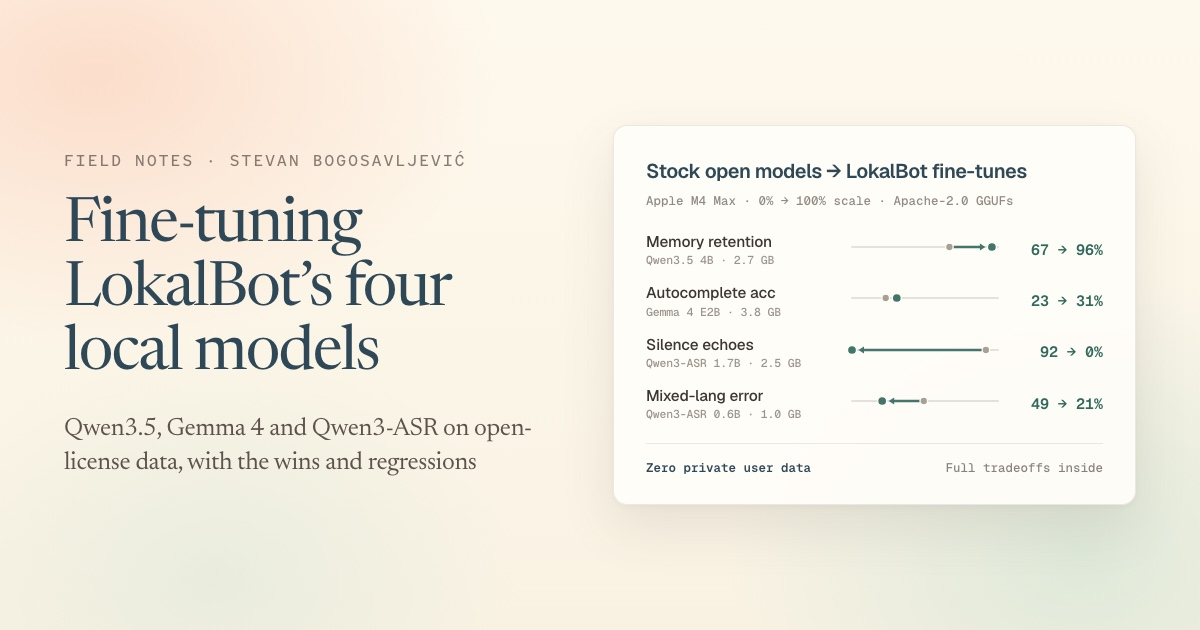
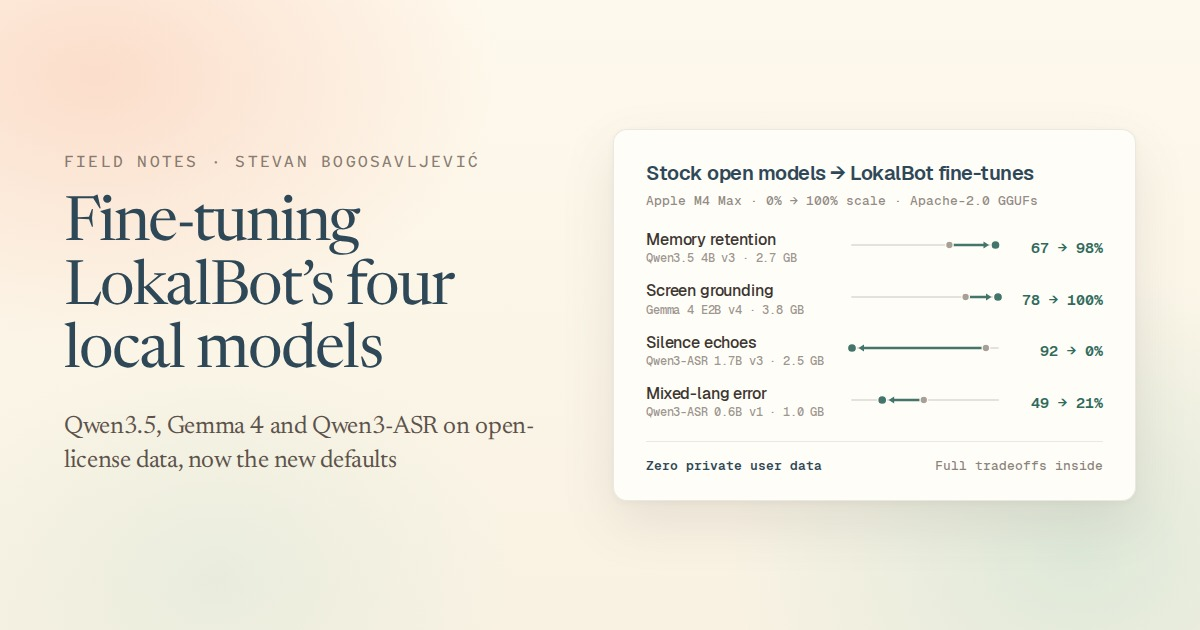
Update LokalBot 4-model fine-tuning post with Wave-3b defaults

diff --git a/blog/posts/fine-tuning-lokalbot-local-models/index.html b/blog/posts/fine-tuning-lokalbot-local-models/index.html
@@ -4,7 +4,7 @@
     <meta charset="UTF-8" />
     <meta name="viewport" content="width=device-width, initial-scale=1.0" />
     <title>Fine-tuning LokalBot’s four local models in 24 hours · Field Notes</title>
-    <meta name="description" content="Stock open models struggled with Serbian notes, quiet dictation and inline autocomplete in LokalBot. I fine-tuned all four local models over a day and published the Apache-2.0 weights, along with what got worse." />
+    <meta name="description" content="Stock open models struggled with Serbian notes, quiet dictation and inline autocomplete in LokalBot. I fine-tuned all four, ran a second pass to fix the first round’s regressions, and promoted them to LokalBot’s new defaults." />
     <link rel="canonical" href="https://stevan.bogosavljevic.me/blog/posts/fine-tuning-lokalbot-local-models/" />
     <link rel="icon" type="image/svg+xml" href="/favicon.svg" />
     <link rel="preconnect" href="https://fonts.googleapis.com" />
@@ -12,7 +12,7 @@
     <link href="https://fonts.googleapis.com/css2?family=Google+Sans+Flex:opsz,wght@6..72,400..800&family=Newsreader:ital,opsz,wght@0,6..72,400;0,6..72,500;0,6..72,600;1,6..72,400;1,6..72,500&family=Red+Hat+Mono:wght@400;500&display=swap" rel="stylesheet" />
     <link rel="stylesheet" href="../../assets/blog.css" />
     <meta property="og:title" content="Fine-tuning LokalBot’s four local models in 24 hours" />
-    <meta property="og:description" content="Stock open models struggled with Serbian notes, quiet dictation and inline autocomplete in LokalBot. I fine-tuned all four local models over a day and published the Apache-2.0 weights." />
+    <meta property="og:description" content="Stock open models struggled with Serbian notes, quiet dictation and inline autocomplete. I fine-tuned all four, fixed the first round’s regressions, and promoted them to LokalBot’s new defaults." />
     <meta property="og:type" content="article" />
     <meta property="og:url" content="https://stevan.bogosavljevic.me/blog/posts/fine-tuning-lokalbot-local-models/" />
     <meta property="og:image" content="https://stevan.bogosavljevic.me/blog/posts/fine-tuning-lokalbot-local-models/og.jpg" />
@@ -60,9 +60,9 @@
     <main id="content">
       <section class="hero hero--post" aria-labelledby="post-title">
         <div class="hero-inner">
-          <p class="eyebrow">Nov 21, 2026 · AI · Engineering · 8 min read</p>
+          <p class="eyebrow">Nov 21, 2026 (updated Nov 22) · AI · Engineering · 9 min read</p>
           <h1 id="post-title" class="post-hero-title">Fine-tuning LokalBot’s four local models in 24 hours</h1>
-          <p class="hero-subtitle">Stock open models struggled with Serbian notes, quiet dictation and inline autocomplete. I fine-tuned all four over a day and published the weights, along with what got worse.</p>
+          <p class="hero-subtitle">Stock open models struggled with Serbian notes, quiet dictation and inline autocomplete. I fine-tuned all four, ran a second pass to fix the first round’s regressions, and promoted them to LokalBot’s new defaults.</p>
         </div>
       </section>
 
@@ -71,6 +71,7 @@
           <aside class="post-meta-card" aria-label="Post metadata">
             <div class="metadata">
               <span>Published Nov 21, 2026</span>
+              <span>Updated Nov 22, 2026</span>
               <span>AI · Engineering</span>
             </div>
             <div class="post-actions">
@@ -88,12 +89,12 @@
             <div class="example-box">
               <p><span class="example-label">Transcript (Serbian / Montenegrin Cyrillic)</span>Јелена: „Договорили смо се да у четвртак у 14:00 CET пустимо нову верзију на пет одсто саобраћаја, под условом да провјера поновног учитавања прође. Нећемо је пустити за викенд.”</p>
               <p><span class="example-label is-bad">Stock Qwen3.5 4B</span>Согласовано запуск новой версии на 5% трафика в четверг в 14:00 CET при условии проверки повторного загрузки, без запуска в выходные. Decisions came back as <code>None</code>, with 20 Russian-drift hits across the notes.</p>
-              <p><span class="example-label is-good">Qwen3.5-4B-LokalBot-v2</span>Пуштање нове верзије на 5% саобраћаја у четвртак у 14:00 CET, под условом да провјера поновног учитавања прође. Saved as a decision, with zero Russian drift.</p>
+              <p><span class="example-label is-good">Qwen3.5-4B-LokalBot-v2</span>Пуштање нове верзије на 5% саобраћаја у четвртак у 14:00 CET, под условом да провјера поновног учитавања прође. Saved as a decision, with zero Russian drift (and <code>v3</code> keeps zero Russian drift and zero validator rejections across all six replay fixtures).</p>
             </div>
 
             <p>The other models had their own weak spots. Stock <code>Qwen3.5 4B</code> recalled 0 of 13 Serbian personal facts (translating them into English instead) and caught decisions on only 2 of 8 real decision-bearing meetings. Stock <code>Gemma 4 E2B</code> dropped from 25.3% autocomplete accuracy in English to 7.6% in Serbian Latin and 8.6% in Cyrillic, and sometimes suggested outdated saved facts over text that was right there in the active window. On 24 silence and room-noise clips carrying a custom vocabulary prompt (<code>Mila Novak, Orion Launch, Acme.</code>), stock <code>Qwen3-ASR 1.7B</code> echoed those names or invented words on 22 of them. And the smaller <code>0.6B</code> speech model hit 52.3% word error rate on South Slavic speech and 49.2% on mixed-language clips.</p>
 
-            <p>Over about 18.5 hours I fine-tuned all four models (<code>Qwen3.5 4B</code>, <code>Gemma 4 E2B</code>, <code>Qwen3-ASR 1.7B</code> and <code>Qwen3-ASR 0.6B</code>), uploaded the Apache-2.0 GGUFs to Hugging Face, and opened <a href="https://github.com/stevyhacker/LokalBot/pull/557">PR #557</a> and <a href="https://github.com/stevyhacker/LokalBot/pull/561">PR #561</a> to wire them into LokalBot. Think v2 and Gemma v3 are opt-in alongside the stock defaults, while PR #561 switches the default Transcribe pins.</p>
+            <p>Over an initial 18.5 hours I fine-tuned all four models (<code>Qwen3.5 4B</code>, <code>Gemma 4 E2B</code>, <code>Qwen3-ASR 1.7B</code> and <code>Qwen3-ASR 0.6B</code>) and uploaded the Apache-2.0 GGUFs to Hugging Face. At that point only the two speech models were ready to replace the defaults. Think <code>v2</code> triggered too many validator retries on noisy real meetings, and Autocomplete <code>v3</code> gave up two small saved-memory checks and some email precision. On Nov 22 I ran a follow-up pass on Colab Pro+ GPUs to fix both (<code>Qwen3.5 4B v3</code> and <code>Gemma 4 E2B v4</code>), and updated <a href="https://github.com/stevyhacker/LokalBot/pull/561">PR #561</a> (superseding <a href="https://github.com/stevyhacker/LokalBot/pull/557">#557</a>) to make all four the new built-in defaults, with a dismissible upgrade prompt for existing users still on the stock files.</p>
 
             <p>Before training anything, I set a few constraints. Every training set had to use open-license data only (Apache-2.0, ODC-By, CC0 and CC-BY-4.0, plus synthetic examples from open-weight teachers), with no private user recordings or meetings, no CC-BY-SA, and no non-commercial datasets. Holdouts were frozen ahead of time and checked for n-gram and entity overlap. Most task-specific eval sets are self-built or synthetic alongside public splits from QMSum, FLEURS, VoxPopuli, ParlaSpeech-RS and AMI, and the 12 local real-meeting references come from a frontier model rather than human labels.</p>
 
@@ -101,11 +102,11 @@
 
             <h2>What got worse</h2>
 
-            <p>None of the four models is a pure upgrade on every axis. Before getting into the recipes, here are the regressions I kept and documented in each model card:</p>
+            <p>None of the four shipped defaults is a pure upgrade on every axis. Before getting into the recipes, here are the remaining tradeoffs documented in each model card:</p>
 
             <ul>
-              <li><code>Qwen3.5 4B v2</code> is more eager on noisy real-world transcripts, which triggers more quote-mismatch validator retries (72 rejections and 21 repairs vs. 40 and 19 for stock, and 33 and 10 for v1). On the 12 local meetings, stock still has higher action recall against the frontier reference (50.0% vs. 47.1%), v1 resolves a higher share of owners (75.8% vs. 67.4%), and v2 outputs 24 decisions and 95 actions against 19 and 70 in the reference, so it over-extracts a bit. On SparkX26 it passes 8/12 cases vs. 7/12 for stock, but scores 36/43 individual fields vs. 37/43.</li>
-              <li><code>Gemma 4 E2B v3</code> drops Serbian Latin precision from 55.6% to 46.9% as coverage climbs from 13.6% to 48.5%. Median boundary latency goes from 20.6 ms to 26.6 ms (typing p95 improves from 95.6 ms to 87.2 ms). Email precision recovers from 59.5% in v2 to 70.7% in v3, still short of stock’s 74.3%, even though email accuracy rises from 50.0% to 55.8%. Two tiny memory checks (<code>memory_dev</code> at 5/6 and <code>memory_rel_heldout</code> at 4/5) remain one conservative abstention below stock, with zero false retrievals and 12/12 on <code>memory_heldout</code>.</li>
+              <li><code>Qwen3.5 4B v3</code> fixed <code>v2</code>’s retry spike (validator rejections on the 12 real meetings fell from 72 down to 6, vs. 40 for stock, with zero missing ownership quotes), raised SparkX26 from 36/43 to 40/43, and cut median extraction time by 42% (33.1 s to 19.2 s). The tradeoff is lower action recall on those 12 noisy meetings: <code>v3</code> skips speculative ASR turns, saving 54 actions (35.7% segment recall, 48.1% precision against the frontier reference) vs. 74 (50.0% recall, 50.0% precision) for stock.</li>
+              <li><code>Gemma 4 E2B v4</code> restored 56/56 across all memory and visible-context suites, lifted email precision to 80.0% (vs. 74.3% stock), kept wrong suggestions flat at 182 (vs. 181 stock), and ran faster than stock (20.2 ms median boundary, 80.0 ms typing p95). Tradeoffs: conversation precision drops from 48.6% to 42.9%, formatting precision from 61.5% to 57.1%, and overall coverage stays close to stock (48.4% vs. 58.6% in <code>v3</code>), so short-prompt Serbian recall on the Engine set is lower than in <code>v3</code> (12.1% vs. 22.7%, though <code>v4</code> beats <code>v3</code> on blind <code>fresh_holdout_v1</code> Serbian Latin at 76.7% vs. 73.3%). Both <code>v4</code> and <code>v3</code> stay in the Hugging Face repo.</li>
               <li><code>Qwen3-ASR 1.7B v3</code> returns empty transcripts on 2 of 200 very low-SNR far-field AMI-400 SDM clips (stock returns 0/200 empty). Word error rate across the five evaluated guard languages (<code>en/de/fr/es/ru</code>) ticks up 0.18 points (4.35% to 4.53%). Because AMI SDM train is in the training mix, the −1.67 point gain on AMI-400 SDM is in-domain.</li>
               <li><code>Qwen3-ASR 0.6B v1</code> regresses on the small 25-clip AMI holdout (+2.54 points close-mic, +0.58 far-field) before coming out slightly ahead on the 8× larger 400-clip AMI suite (−0.15 and −0.34 points, with 1/200 empty far-field). On AMI-400 it runs at the same speed as stock (51.3× vs. 51.9× real-time); the faster 52.7× vs. 39.7× number on holdout mostly comes from shorter outputs once the South Slavic script drift stopped.</li>
             </ul>
@@ -122,18 +123,20 @@
 
             <figure class="scorecard-fig">
               <a href="scorecard-think.png" title="Open full size">
-                <img src="scorecard-think.png" alt="Qwen3.5 4B fine-tune vs. stock on Apple M4 Max: personal facts kept right up from 66.7% to 95.8%, Serbian facts recalled 0% to 92.3%, meetings with decisions caught 25% to 100%, with action items caught on real meetings dipping from 50.0% to 47.1%." width="960" height="821" loading="lazy" decoding="async" />
+                <img src="scorecard-think.png" alt="Qwen3.5 4B v3 fine-tune vs. stock on Apple M4 Max: personal facts kept right up from 66.7% to 98.3%, Serbian facts recalled 0% to 92.3%, meetings with decisions caught 25% to 100%, with action items caught on real meetings moving from 50.0% to 35.7% while validator rejections drop from 40 to 6." width="960" height="787" loading="lazy" decoding="async" />
               </a>
-              <figcaption>Qwen3.5 4B LokalBot v2 vs. stock on Apple M4 Max. Three main gains in green and one regression in amber on a 0–100% scale.</figcaption>
+              <figcaption>Qwen3.5 4B LokalBot v3 vs. stock on Apple M4 Max. Alongside these four rates, validator rejections on the 12 real meetings fell from 40 to 6 (0 missing quotes) and median latency dropped from 33.1 s to 19.2 s.</figcaption>
             </figure>
 
             <p>LokalBot’s Think tasks want two things that usually fight each other in a 4B model: enough judgment to decide which facts are worth saving and keep Serbian Cyrillic out of Russian, and fast JSON extraction with no chain-of-thought tokens at runtime.</p>
 
-            <p>To get both, I ran <code>Qwen3.6-35B-A3B</code> (<code>UD-Q4_K_XL</code>, Apache-2.0) with <code>enable_thinking=True</code> so the 35B MoE teacher could reason through each example, then checked every output with LokalBot’s schema, verbatim-quote and grounding validators. Only outputs that passed became direct <code>enable_thinking=False</code> training targets for the 4B student. The v2 set had 1,067 verified examples (1,014 train, 53 val) mixing <code>pszemraj/qmsum-cleaned</code> (excluding the AMI eval series), synthetic English and Serbian meetings, repair traces, Personal Context memory and hard negatives, Day Digest segments, multi-step Ask tool calls, and 180 general instruction rows from <code>allenai/tulu-3-sft-mixture</code> (ODC-By).</p>
+            <p>To get both, I ran <code>Qwen3.6-35B-A3B</code> (<code>UD-Q4_K_XL</code>, Apache-2.0) with <code>enable_thinking=True</code> so the 35B MoE teacher could reason through each example, then checked every output with LokalBot’s schema, verbatim-quote and grounding validators. Only outputs that passed became direct <code>enable_thinking=False</code> training targets for the 4B student. Qwen3.5 mixes regular attention layers with Gated DeltaNet linear-attention layers, so I attached bf16 LoRA (<code>r=32</code>, <code>alpha=64</code>, <code>lr=1.0e-4</code>, 2 epochs) to all 248 <code>language_model</code> linear projections, including DeltaNet’s <code>in_proj_qkv/z/a/b</code> and <code>out_proj</code>, leaving the vision tower untouched.</p>
 
-            <p>Qwen3.5 mixes regular attention layers with Gated DeltaNet linear-attention layers, so I attached bf16 LoRA (<code>r=32</code>, <code>alpha=64</code>, <code>lr=1.0e-4</code>, 2 epochs) to all 248 <code>language_model</code> linear projections, including DeltaNet’s <code>in_proj_qkv/z/a/b</code> and <code>out_proj</code>, leaving the vision tower untouched. After merging in fp32, converting to F16 GGUF, and running a 64-chunk bilingual imatrix (English, Serbian Latin and Cyrillic, plus LokalBot JSON), <code>Q4_K_M</code> came out to <code>2,741,241,920</code> bytes, the exact same byte count as stock.</p>
+            <p>The first pass (<code>v1</code>) fixed decisions (3/6 to 6/6 on Golden6, 2/8 to 8/8 on real meetings), Serbian memory recall (0/13 to 12/13) and Russian drift (20 to 0), but got timid on multi-speaker action items (27 down to 17 on Golden6) and saved 7 unwanted English memory items. For <code>v2</code> (1,067 rows) I added 78 action-dense meetings and 65 hard-negative memory rows. Memory retention climbed to 115/120 (95.8%, 1 unwanted), English useful recall hit 94.2%, and Golden6 actions recovered to 34. On the 12 noisy real meetings, though, <code>v2</code> hit 72 validator rejections and 21 repair calls (up from 40 and 19 for stock).</p>
 
-            <p>The first pass (<code>v1</code>) fixed decisions (3/6 to 6/6 on Golden6, 2/8 to 8/8 on real meetings), Serbian memory recall (0/13 to 12/13) and Russian drift (20 to 0), but it got timid on multi-speaker action items (27 down to 17 on Golden6) and saved 7 unwanted English memory items. For <code>v2</code> I added 78 action-dense meetings and 65 hard-negative memory rows. Memory retention climbed to 115/120 (95.8%, 1 unwanted item), English useful recall hit 94.2% (above stock <code>Qwen3.5 9B</code>’s 71.2%), and Golden6 actions recovered to 34, with the higher retry rate on noisy meetings noted above. Both checkpoints live on <a href="https://huggingface.co/stevyhacker/Qwen3.5-4B-LokalBot-GGUF">Hugging Face</a>.</p>
+            <p>Checking the training code turned up four specific bugs behind those 72 rejections. The repair training prompt used plain bullet text while LokalBot’s Swift recovery loop sends JSON <code>Validation feedback:</code>, so <code>v2</code> had never seen the real repair format. When the teacher paraphrased a quote, the distillation script fell back to pasting the entire turn. Synthetic meetings forced 5 to 7 actions each and included non-English questions marked as commitments, which LokalBot’s validator always rejects. And an over-strict Cyrillic filter had left only 3 Serbian Cyrillic meetings in <code>v2</code>.</p>
+
+            <p>For <code>v3</code> I compiled LokalBot’s production Swift evidence validator into a standalone CLI and ran every distilled meeting and repair trace through it, raising <code>max_length</code> to 10,240 and rebuilding the dataset with 122 Serbian Cyrillic meetings and 220 real on-policy JSON repair traces (including one-call <code>basis="unclear"</code> exits). My first <code>v3</code> run swung too far toward silence (12.9% real-meeting action recall) because 42.7% of the long QMSum chunks were empty and a script bug accidentally wiped valid actions on zero-action bands. Fixing that bug, capping empty QMSum chunks, and balancing long chunks (1,870 Swift-verified rows, zero dropped) followed by an fp32 merge at <code>scale=0.85</code> and a 64-chunk bilingual EN/SR/JSON imatrix landed <code>Qwen3.5-4B-LokalBot-v3-Q4_K_M.gguf</code> (<code>2,741,241,984</code> bytes). Memory retention reached 118/120 (52/52 English, 12/13 Serbian, 1 unwanted), SparkX26 rose to 40/43 fields (9/12 cases, 6/6 tools, multi-step intact), Golden6 finished with zero rejections and zero drift in 7.16 s, and the 12 real meetings dropped from 72 rejections to 6 (zero missing quotes, 5 repairs, 8/8 decision meetings, 19.2 s median). All three checkpoints live on <a href="https://huggingface.co/stevyhacker/Qwen3.5-4B-LokalBot-GGUF">Hugging Face</a>.</p>
 
             <details>
               <summary>See the full Qwen3.5 4B numbers</summary>
@@ -143,7 +146,7 @@
                     <tr>
                       <th>Suite (Apple M4 Max · <code>llama-server v1.0.0</code>)</th>
                       <th class="num">Stock 4B</th>
-                      <th class="num">LokalBot v2</th>
+                      <th class="num">LokalBot v3</th>
                       <th class="num">Change</th>
                     </tr>
                   </thead>
@@ -151,8 +154,8 @@
                     <tr>
                       <td>Memory Retention — English (96 cases, 52 gold)</td>
                       <td class="num">70/96 (53.8% recall, 3 unwanted)</td>
-                      <td class="num">92/96 (94.2% recall, 1 unwanted)</td>
-                      <td class="num">+22.9 pp (+40.4 pp recall)</td>
+                      <td class="num">95/96 (100.0% recall, 1 unwanted)</td>
+                      <td class="num">+26.0 pp (+46.2 pp recall)</td>
                     </tr>
                     <tr>
                       <td>Memory Retention — Serbian (24 cases, 13 gold)</td>
@@ -163,34 +166,34 @@
                     <tr>
                       <td>SparkX26 Guard (12 JSON / 43 fields · 6 tools)</td>
                       <td class="num">7/12 (37/43) · 6/6 · 0.58 s</td>
-                      <td class="num">8/12 (36/43) · 6/6 · 0.52 s</td>
-                      <td class="num">+1 JSON (−1 field)</td>
+                      <td class="num">9/12 (40/43) · 6/6 · 0.40 s</td>
+                      <td class="num">+2 JSON (+3 fields)</td>
                     </tr>
                     <tr>
                       <td>Golden6 Swift Replay (6 synthetic meetings)</td>
-                      <td class="num">27 act · 3/6 dec · 20 RU · 10.4 s</td>
-                      <td class="num">34 act · 6/6 dec · 0 RU · 9.8 s</td>
-                      <td class="num">+7 actions, 0 drift</td>
+                      <td class="num">27 act · 3 dec · 3 rej · 20 RU · 10.4 s</td>
+                      <td class="num">30 act · 7 dec · 0 rej · 0 RU · 7.2 s</td>
+                      <td class="num">0 rejections, 0 drift</td>
                     </tr>
                     <tr>
                       <td>12 Real Meetings (frontier ref: 19 dec / 8 mtgs, 70 act)</td>
-                      <td class="num">5 dec (2/8) · 50.0% rec · 33.1 s</td>
-                      <td class="num">24 dec (8/8) · 47.1% rec · 32.3 s</td>
-                      <td class="num">8/8 dec; 72 vs 40 retries</td>
+                      <td class="num">5 dec (2/8) · 50.0% rec · 40 rej · 33.1 s</td>
+                      <td class="num">26 dec (8/8) · 35.7% rec · 6 rej · 19.2 s</td>
+                      <td class="num">8/8 dec, −85% rej, −42% time</td>
                     </tr>
                   </tbody>
                 </table>
               </div>
-              <p class="table-note">Full stock / v1 / v2 table and SHA-256 checksums are in <a href="https://huggingface.co/stevyhacker/Qwen3.5-4B-LokalBot-GGUF"><code>stevyhacker/Qwen3.5-4B-LokalBot-GGUF</code></a>.</p>
+              <p class="table-note">Full stock / v1 / v2 / v3 table and SHA-256 checksums are in <a href="https://huggingface.co/stevyhacker/Qwen3.5-4B-LokalBot-GGUF"><code>stevyhacker/Qwen3.5-4B-LokalBot-GGUF</code></a>.</p>
             </details>
 
             <h2>Autocomplete: Gemma 4 E2B</h2>
 
             <figure class="scorecard-fig">
               <a href="scorecard-autocomplete.png" title="Open full size">
-                <img src="scorecard-autocomplete.png" alt="Gemma 4 E2B fine-tune vs. stock on Apple M4 Max: overall test accuracy up from 23.1% to 30.7%, Serbian typing accuracy 7.6% to 22.7%, active-window grounding 77.8% to 100%, with Serbian precision dipping from 55.6% to 46.9% as output tripled." width="960" height="821" loading="lazy" decoding="async" />
+                <img src="scorecard-autocomplete.png" alt="Gemma 4 E2B v4 fine-tune vs. stock on Apple M4 Max: screen grounding up from 77.8% to 100% (56/56 across all memory and visible-context checks), email precision 74.3% to 80.0%, blind holdout v2 accuracy 43.9% to 52.4%, with conversation precision dipping from 48.6% to 42.9%." width="960" height="787" loading="lazy" decoding="async" />
               </a>
-              <figcaption>Gemma 4 E2B LokalBot v3 vs. stock through LokalBot’s macOS Release binary.</figcaption>
+              <figcaption>Gemma 4 E2B LokalBot v4 (default) vs. stock through LokalBot’s macOS Release binary. Overall Engine accuracy moves from 23.1% to 25.3% (+17 right for +1 wrong shown) at 20.2 ms median boundary latency.</figcaption>
             </figure>
 
             <p>Inline autocomplete only shows a suggestion when the top token crosses a confidence threshold. Plain SFT makes logits sharper everywhere, which makes the model overconfident and floods the editor with bad guesses.</p>
@@ -201,7 +204,9 @@
 
             <p>I then had Claude Opus compare 50 randomized dev pairs where <code>v2-PLE</code> and stock differed, without model labels. It preferred <code>v2-PLE</code> overall (27 to 9, with 14 ties; 22–5–5 under production gates), but kept pointing out bad email completions. Checking the benchmark showed email precision had dropped from 74.3% to 59.5%, and two small memory sets had slipped by one case each.</p>
 
-            <p>Printing a few raw rows from the v2 training file showed why. The <code>email_calib_kl_en</code> slice had pulled in raw FineWeb pages with no spam filter, so SEO and adult spam starting with <code>Subject:</code> had poisoned email calibration. On top of that, the training mix had 681 <code>Visible + Memory</code> override rows against only 126 standalone <code>Memory-only</code> rows (a 5.4× skew). For <code>v3</code> I dropped 309 bad rows, added 750 clean <code>Subject:</code> anchors, 650 standalone memory recall rows, 250 memory distractor anchors and 400 Serbian calibration rows, raised ungrounded KL from 0.45 to 0.52, and quantized with a bilingual EN/SR imatrix at merge scale 1.15. By step 1,156 all five validation buckets improved top-1 accuracy and lowered confident-wrong rate while holding Serbian Latin mean top-1 probability steady at stock’s 0.538. Email rose to 55.77% accuracy and 70.7% precision, while the two small memory sets stayed one abstention below stock. Weights live in <a href="https://huggingface.co/stevyhacker/Gemma-4-E2B-LokalBot-GGUF"><code>stevyhacker/Gemma-4-E2B-LokalBot-GGUF</code></a>.</p>
+            <p>Printing a few raw rows from the v2 training file showed why. The <code>email_calib_kl_en</code> slice had pulled in raw FineWeb pages with no spam filter, so SEO and adult spam starting with <code>Subject:</code> had poisoned email calibration. On top of that, the training mix had 681 <code>Visible + Memory</code> override rows against only 126 standalone <code>Memory-only</code> rows (a 5.4× skew). For <code>v3</code> I dropped 309 bad rows, added 750 clean <code>Subject:</code> anchors, 650 standalone memory recall rows, 250 memory distractor anchors and 400 Serbian calibration rows, raised ungrounded KL from 0.45 to 0.52, and quantized with a bilingual EN/SR imatrix at merge scale 1.15. Engine accuracy climbed to 30.71% (22.7% Serbian Latin, 82.5% on <code>fresh_holdout_v1</code>) and email recovered to 55.77% accuracy and 70.7% precision, but wrong suggestions rose from 181 to 220 and two small memory sets stayed one abstention below stock (24/26).</p>
+
+            <p>Looking into why <code>v3</code> still missed those memory cases caught two trainer bugs: bodies under 20 tokens were silently dropped (818 targeted rows lost), and the first 4 to 16 body tokens were masked from both cross-entropy and KL, leaving early sentence positions unanchored. For <code>v4</code> I dropped the prefaced minimum length to 6 tokens, ran Forward KL from body token 0 on every row, replaced the chatty synthetic memory templates with diverse <code>kl_only=True</code> standalone memory and short chat/formatting anchors, and kept early unprefaced tokens on the blended 26B teacher (an intermediate run anchored them strictly to stock E2B and pulled short-prompt recall down too far). Merging at <code>scale=1.0</code> without temperature folding (testing <code>T=1.1</code> after verifying Gemma 4’s multiplicative RMSNorm scale math hurt precision) produced the default-safe <code>v4</code> checkpoint: 56/56 across all memory and visible-context suites, 80.0% email precision, 25.25% overall Engine accuracy and 52.23% precision with 199 right and 182 wrong (vs. 182 right and 181 wrong for stock), 76.7% on blind <code>fresh_holdout_v1</code> Serbian Latin, 52.4% vs. 43.9% on a newly minted 82-case <code>fresh_holdout_v2</code>, and faster latency than stock (20.2 ms median / 80.0 ms typing p95). LokalBot now defaults to <code>v4</code>; <code>v3</code> stays in <a href="https://huggingface.co/stevyhacker/Gemma-4-E2B-LokalBot-GGUF"><code>stevyhacker/Gemma-4-E2B-LokalBot-GGUF</code></a> if you prefer higher completion volume over stock-level restraint.</p>
 
             <details>
               <summary>See the full Gemma 4 E2B numbers</summary>
@@ -211,7 +216,7 @@
                     <tr>
                       <th>Benchmark (LokalBot macOS Release binary)</th>
                       <th class="num">Stock i1-Q6_K</th>
-                      <th class="num">v3 (scale 1.15, biling)</th>
+                      <th class="num">v4 (default, s=1.0)</th>
                       <th class="num">Change</th>
                     </tr>
                   </thead>
@@ -219,38 +224,32 @@
                     <tr>
                       <td>Engine Overall (788 checkpoints) acc / prec</td>
                       <td class="num">23.10% / 50.1%</td>
-                      <td class="num">30.71% / 52.4%</td>
-                      <td class="num">+7.61 / +2.24 pp</td>
+                      <td class="num">25.25% / 52.2%</td>
+                      <td class="num">+2.15 / +2.09 pp</td>
+                    </tr>
+                    <tr>
+                      <td>Engine Correct / Wrong shown</td>
+                      <td class="num">182 / 181</td>
+                      <td class="num">199 / 182</td>
+                      <td class="num">+17 right / +1 wrong</td>
                     </tr>
                     <tr>
                       <td>Email (52) acc / prec</td>
                       <td class="num">50.00% / 74.3%</td>
-                      <td class="num">55.77% / 70.7%</td>
-                      <td class="num">+5.77 pp acc (−3.6 pp prec)</td>
+                      <td class="num">53.85% / 80.0%</td>
+                      <td class="num">+3.85 / +5.7 pp</td>
                     </tr>
                     <tr>
-                      <td>Long-Context (47) acc / prec</td>
-                      <td class="num">19.15% / 33.3%</td>
-                      <td class="num">31.91% / 41.7%</td>
-                      <td class="num">+12.76 / +8.4 pp</td>
-                    </tr>
-                    <tr>
-                      <td>Serbian Latin (66) acc / prec</td>
-                      <td class="num">7.58% / 55.6%</td>
-                      <td class="num">22.73% / 46.9%</td>
-                      <td class="num">3.0× acc (−8.7 pp prec)</td>
-                    </tr>
-                    <tr>
-                      <td>Serbian Cyrillic (58) acc / prec</td>
-                      <td class="num">8.62% / 38.5%</td>
-                      <td class="num">18.97% / 40.7%</td>
-                      <td class="num">2.2× acc (+2.2 pp prec)</td>
+                      <td>Serbian Latin (66) · Cyrillic (58) acc</td>
+                      <td class="num">7.58% · 8.62%</td>
+                      <td class="num">12.12% · 13.79%</td>
+                      <td class="num">1.6× · 1.6× (v3: 3.0× / 2.2×)</td>
                     </tr>
                     <tr>
                       <td>Multilingual (40) · Heldout Midword (288)</td>
                       <td class="num">35.0% · 52.78%</td>
-                      <td class="num">50.0% · 54.86%</td>
-                      <td class="num">+15.0 · +2.08 pp</td>
+                      <td class="num">42.5% · 53.82% (68.9% prec)</td>
+                      <td class="num">+7.5 · +1.04 pp</td>
                     </tr>
                     <tr>
                       <td>Visible Context Dev (8) / Heldout (18) / Link (4)</td>
@@ -261,25 +260,31 @@
                     <tr>
                       <td>Memory Heldout (12) / Dev (6) / Relevance (5)</td>
                       <td class="num">12/12 · 6/6 · 5/5</td>
-                      <td class="num">12/12 · 5/6 · 4/5</td>
-                      <td class="num">−1 dev / −1 rel (0 false)</td>
+                      <td class="num">12/12 · 6/6 · 5/5</td>
+                      <td class="num">56/56 total (0 regressions)</td>
                     </tr>
                     <tr>
-                      <td>Frozen Blind Holdout (160 cases)</td>
-                      <td class="num">73.13% (84.8% prec, 11 forbidden)</td>
-                      <td class="num">82.50% (90.4% prec, 1 forbidden)</td>
-                      <td class="num">+9.37 pp (14/14 stale)</td>
+                      <td>Blind <code>fresh_holdout_v1</code> (160) · SR-Latn (30)</td>
+                      <td class="num">73.12% · 70.0%</td>
+                      <td class="num">78.75% · 76.7% (2 forb)</td>
+                      <td class="num">+5.63 · +6.7 pp</td>
+                    </tr>
+                    <tr>
+                      <td>Blind <code>fresh_holdout_v2</code> (82 fresh cases)</td>
+                      <td class="num">43.90% (87.8% prec, 1 forb)</td>
+                      <td class="num">52.44% (89.6% prec, 1 forb)</td>
+                      <td class="num">+8.54 pp</td>
                     </tr>
                     <tr>
                       <td>Latency (M4 Max) boundary med / typing p95</td>
-                      <td class="num">20.6 ms / 95.6 ms</td>
-                      <td class="num">26.6 ms / 87.2 ms</td>
-                      <td class="num">+6.0 ms med / −8.4 ms p95</td>
+                      <td class="num">21.2 ms / 103.5 ms</td>
+                      <td class="num">20.2 ms / 80.0 ms</td>
+                      <td class="num">−1.0 ms med / −23.5 ms p95</td>
                     </tr>
                   </tbody>
                 </table>
               </div>
-              <p class="table-note">Full stock / v1 / v2-PLE / v3 progression is in <a href="https://huggingface.co/stevyhacker/Gemma-4-E2B-LokalBot-GGUF"><code>stevyhacker/Gemma-4-E2B-LokalBot-GGUF</code></a>.</p>
+              <p class="table-note">Full stock / v2-PLE / v3 / v4 progression is in <a href="https://huggingface.co/stevyhacker/Gemma-4-E2B-LokalBot-GGUF"><code>stevyhacker/Gemma-4-E2B-LokalBot-GGUF</code></a>.</p>
             </details>
 
             <h2>Speech: Qwen3-ASR 1.7B and 0.6B</h2>
@@ -429,24 +434,25 @@
 
             <ul>
               <li>Check the exact LoRA target names for the architecture instead of copying <code>q_proj</code> and <code>v_proj</code>. On Qwen3.5 that meant including the Gated DeltaNet projections, on Gemma 4 E2B skipping KV-shared layers 15–34 and adding the 70 PLE matrices, and on Qwen3-ASR 1.7B unlocking the top four <code>audio_tower</code> layers at a lower learning rate.</li>
+              <li>Put the app’s real validator in the distillation loop. Compiling LokalBot’s Swift validator and feeding on-policy JSON repair traces cut real-meeting validator rejections from 72 down to 6.</li>
               <li>Distill larger or thinking models into small fast students when you can’t afford thinking tokens or big weights at runtime. <code>Qwen3.6-35B-A3B</code> into non-thinking <code>Qwen3.5 4B</code> and <code>Gemma-4-26B-A4B</code> soft-logit KL into <code>Gemma 4 E2B</code> gave most of the quality gain with no extra latency.</li>
-              <li>Sweep LoRA merge scales (<code>0.75, 0.9, 1.0, 1.15</code>) and calibrate a bilingual imatrix locally on the Mac before touching the blind holdout. Each merge takes about a minute, costs nothing in GPU time, and usually finds another point or two on dev.</li>
-              <li>Print raw training rows when a slice looks off. That caught the FineWeb spam in Gemma’s email anchors immediately, and the two blind v2 pairwise checks pointed straight at what to fix in v3.</li>
+              <li>Sweep LoRA merge scales (<code>0.75, 0.85, 1.0, 1.15</code>) and calibrate a bilingual imatrix before touching the blind holdout. Each merge takes about a minute, costs almost nothing, and usually finds another point or two on dev.</li>
+              <li>Print raw training rows and dropped-row counts when a slice looks off. That caught the FineWeb spam in Gemma’s email anchors, the 818 dropped short bodies in <code>v3</code>, and the empty-chunk over-correction in the first <code>v3</code> Think run.</li>
               <li>Check the boring GPU plumbing early. Marketplace ingress charges ($0.02/GB on 15 GB of audio streams), low-RAM containers killing data loaders, a stale CUDA 12.6 host driver silently falling back to CPU, and my laptop disk filling up during temporary bf16 GGUF writes all cost more time than picking a learning rate.</li>
             </ul>
 
             <h2>Try the models</h2>
 
-            <p>In LokalBot, open <strong>Settings → Models → Browse Hugging Face</strong> and search <code>stevyhacker/</code>, or follow the open catalog PRs (<a href="https://github.com/stevyhacker/LokalBot/pull/557">#557</a> and <a href="https://github.com/stevyhacker/LokalBot/pull/561">#561</a>). You can also run any of the GGUFs directly with <code>llama.cpp</code>:</p>
+            <p>In LokalBot, <a href="https://github.com/stevyhacker/LokalBot/pull/561">PR #561</a> makes all four fine-tunes the new built-in defaults (with an in-app upgrade prompt if you are still on the previous stock files), or you can grab any checkpoint under <strong>Settings → Models → Browse Hugging Face</strong> by searching <code>stevyhacker/</code>. You can also run any of the GGUFs directly with <code>llama.cpp</code>:</p>
 
-            <pre><code># Think (Qwen3.5-4B-LokalBot-v2, non-thinking mode)
+            <pre><code># Think (Qwen3.5-4B-LokalBot-v3, non-thinking mode)
 llama-server \
-  -m Qwen3.5-4B-LokalBot-v2-Q4_K_M.gguf \
+  -m Qwen3.5-4B-LokalBot-v3-Q4_K_M.gguf \
   -c 32768 -ngl 99 --jinja --reasoning on --port 8080
 
-# Autocomplete (Gemma-4-E2B-LokalBot-v3)
+# Autocomplete (Gemma-4-E2B-LokalBot-v4)
 llama-server \
-  -m Gemma-4-E2B-LokalBot-v3-i1-Q6_K.gguf \
+  -m Gemma-4-E2B-LokalBot-v4-i1-Q6_K.gguf \
   -c 4096 -ngl 99 --port 8081
 
 # Transcribe 1.7B (Qwen3-ASR-1.7B-LokalBot-v3 + paired v3 mmproj)
@@ -479,6 +485,6 @@ LLAMA_MEDIA_MARKER="&lt;__media__&gt;" llama-server \
       </div>
     </footer>
 
-    <script type="application/ld+json">{"@context":"https://schema.org","@type":"BlogPosting","headline":"Fine-tuning LokalBot’s four local models in 24 hours","description":"Stock open models struggled with Serbian notes, quiet dictation and inline autocomplete in LokalBot. I fine-tuned all four local models over a day and published the Apache-2.0 weights, along with what got worse.","datePublished":"2026-11-21","author":{"@type":"Person","name":"Stevan Bogosavljević"},"image":"https://stevan.bogosavljevic.me/blog/posts/fine-tuning-lokalbot-local-models/og.jpg","mainEntityOfPage":"https://stevan.bogosavljevic.me/blog/posts/fine-tuning-lokalbot-local-models/","url":"https://stevan.bogosavljevic.me/blog/posts/fine-tuning-lokalbot-local-models/"}</script>
+    <script type="application/ld+json">{"@context":"https://schema.org","@type":"BlogPosting","headline":"Fine-tuning LokalBot’s four local models in 24 hours","description":"Stock open models struggled with Serbian notes, quiet dictation and inline autocomplete in LokalBot. I fine-tuned all four, ran a second pass to fix the first round’s regressions, and promoted them to LokalBot’s new defaults.","datePublished":"2026-11-21","dateModified":"2026-11-22","author":{"@type":"Person","name":"Stevan Bogosavljević"},"image":"https://stevan.bogosavljevic.me/blog/posts/fine-tuning-lokalbot-local-models/og.jpg","mainEntityOfPage":"https://stevan.bogosavljevic.me/blog/posts/fine-tuning-lokalbot-local-models/","url":"https://stevan.bogosavljevic.me/blog/posts/fine-tuning-lokalbot-local-models/"}</script>
   </body>
 </html>

diff --git a/blog/index.html b/blog/index.html
@@ -56,9 +56,9 @@
           <a class="note-card note-card--lead" href="posts/fine-tuning-lokalbot-local-models/">
             <figure class="note-thumb"><img src="posts/fine-tuning-lokalbot-local-models/og.jpg" alt="" width="1200" height="630" loading="eager" decoding="async" /></figure>
             <div>
-              <p class="note-meta">Nov 21, 2026 · AI, Engineering · 8 min read</p>
+              <p class="note-meta">Nov 22, 2026 · AI, Engineering · 9 min read</p>
               <h3>Fine-tuning LokalBot’s four local models in 24 hours</h3>
-              <p class="note-excerpt">Stock open models struggled with Serbian notes, quiet dictation and inline autocomplete. I fine-tuned all four local models over a day and published the Apache-2.0 weights, along with what got worse.</p>
+              <p class="note-excerpt">Stock open models struggled with Serbian notes, quiet dictation and inline autocomplete. I fine-tuned all four, ran a second pass to fix the first round’s regressions, and promoted them to LokalBot’s new defaults.</p>
             </div>
           </a>
           <a class="note-card" href="posts/bun-1-3-vs-1-4-in-production/">
